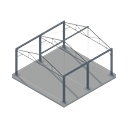
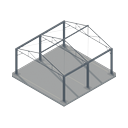
Truss shelters: the eave beams stay under the roof and the gable ends get rake boards that follow the slope (no white line, no beams showing through)

diff --git a/tools/make_truss_shelters.py b/tools/make_truss_shelters.py
@@ -132,8 +132,8 @@ def framing_stage(b, n, M):
         truss(b, x, M)
     for sy in (-1, 1):
         y = sy * SPAN / 2
-        b.box(x0 - 0.1, x1 + 0.1, y - 0.07, y + 0.07, Z_EAVE, Z_EAVE + 0.2, M['frame'])                          # the eave beams
-    b.box(x0 - 0.1, x1 + 0.1, -0.06, 0.06, Z_RIDGE - 0.1, Z_RIDGE + 0.04, M['frame'])                          # the ridge beam
+        b.box(x0 - 0.1, x1 + 0.1, y - 0.07, y + 0.07, Z_EAVE - 0.18, Z_EAVE + 0.03, M['frame'])                  # the eave beams (their tops stay under the purlins and the roof)
+    b.box(x0 - 0.1, x1 + 0.1, -0.06, 0.06, Z_RIDGE - 0.1, Z_RIDGE + 0.0, M['frame'])                          # the ridge beam
     for k in range(n):                                                                                           # X-bracing in the end bays' roof planes
         if k in (0, n - 1):
             xa, xb = x0 + k * BAY, x0 + (k + 1) * BAY
@@ -164,9 +164,10 @@ def roof_stage(roof, n, M):
             slope_panel(roof, xs - 0.015, xs + 0.015, sy * ye, ze + 0.13 - rise * OVER + 0.04, sy * 0.0, top0 + 0.04, 0.025, M['shingle_dark'])
         roof.box(x0, x1, sy * ye - 0.03, sy * ye + 0.03, ze - rise * OVER + 0.02, ze - rise * OVER + 0.2, M['trim'])      # the eave trim
     roof.box(x0, x1, -0.14, 0.14, top0 + 0.02, top0 + 0.12, M['shingle_dark'])                                        # the ridge cap
-    for sx in (-1, 1):                                                                                                  # the gable-end rakes
+    for sx in (-1, 1):                                                                                                  # the rake boards along the gable ends, following the roof slope
         xe = x1 if sx > 0 else x0
-        roof.box(xe - 0.03, xe + 0.03, -ye, ye, top0 - 0.2, top0 - 0.18, M['trim'])
+        for sy in (-1, 1):
+            slope_panel(roof, xe - 0.035, xe + 0.035, sy * ye, ze + 0.13 - rise * OVER - 0.02, sy * 0.0, top0 - 0.02, 0.075, M['trim'])
 
 
 # ------------------------------------------------------------------ manifests
